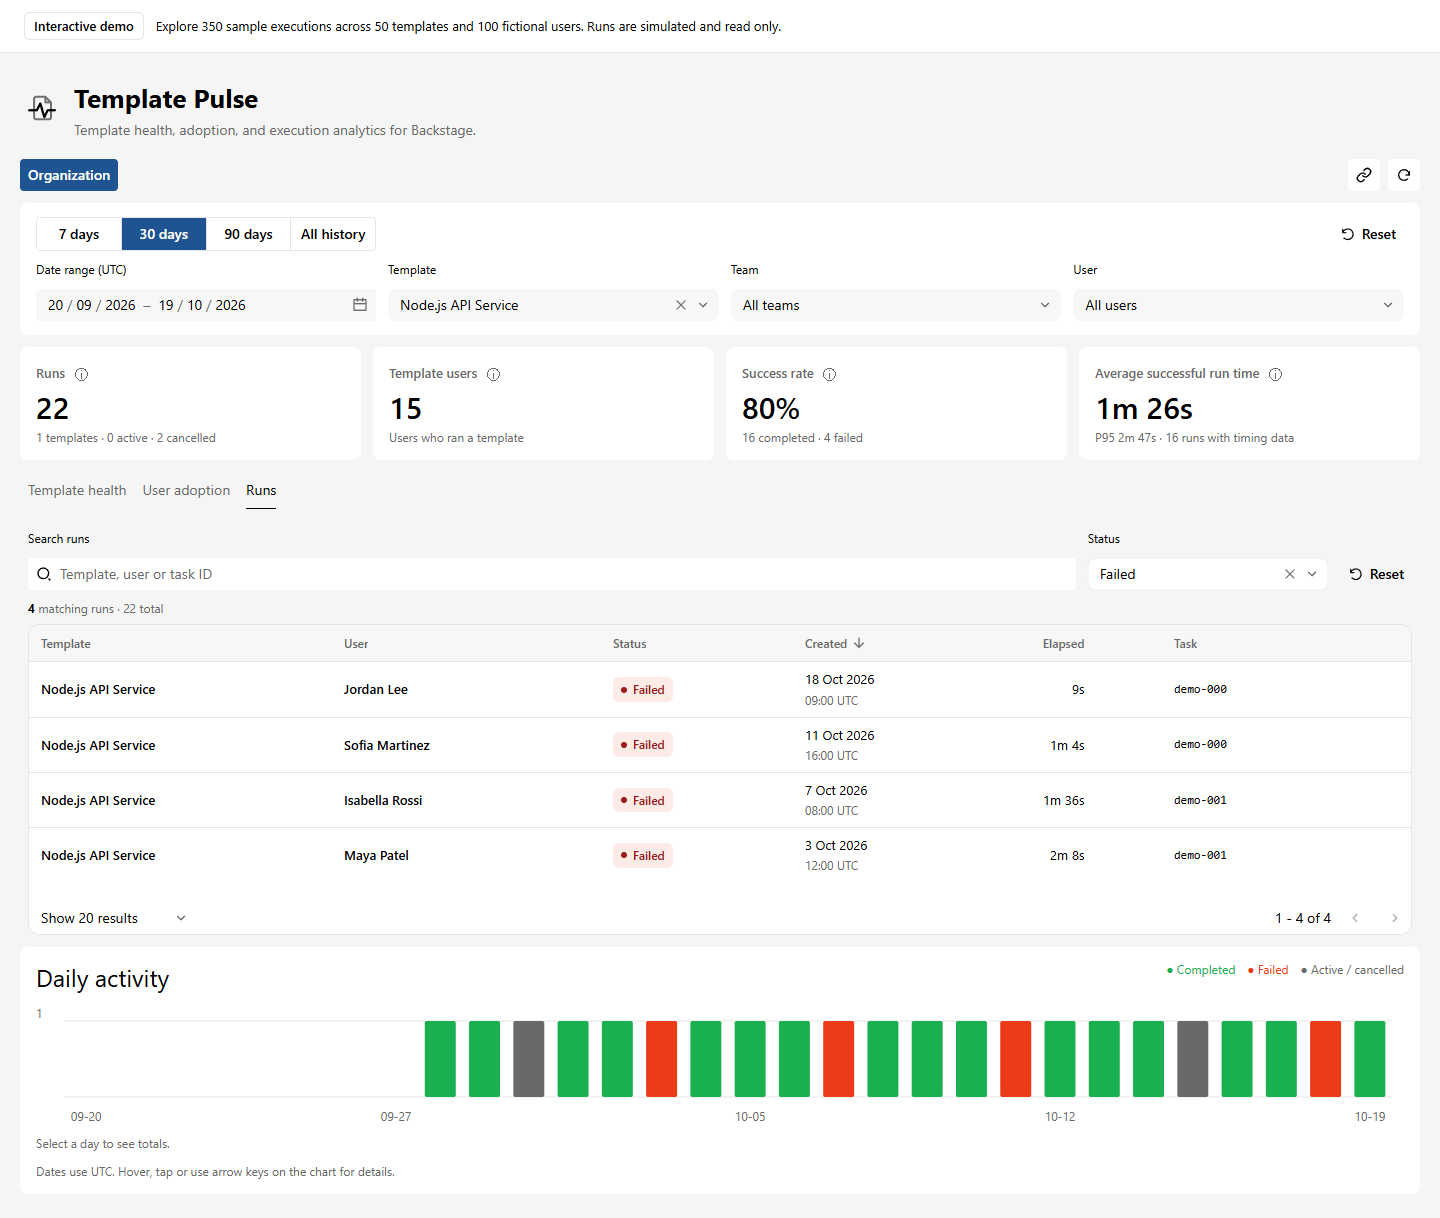
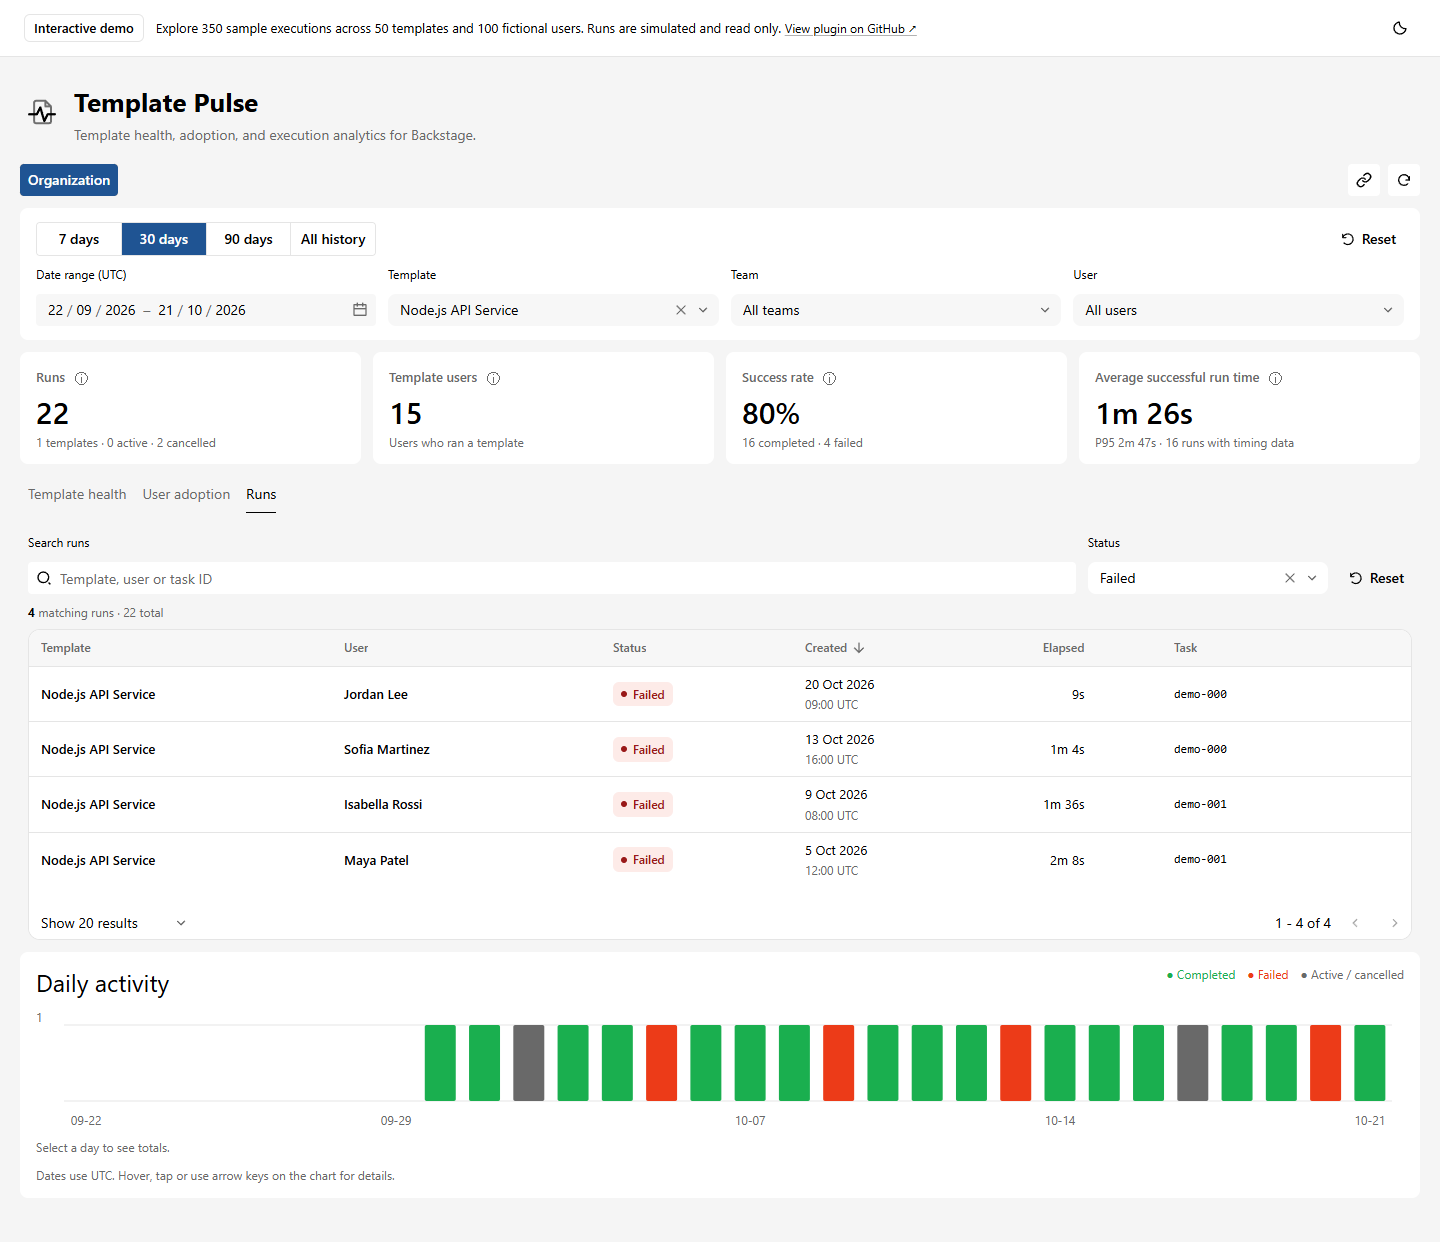
feat: update Open Graph and Twitter metadata; replace template health image with new preview image

diff --git a/packages/app/src/staticDemo.tsx b/packages/app/src/staticDemo.tsx
@@ -1,4 +1,4 @@
-import { useEffect, useState } from 'react';
+import { useEffect, useState, type ReactNode } from 'react';
 import {
   ApiBlueprint,
   appThemeApiRef,
@@ -8,7 +8,8 @@ import {
   createFrontendModule,
   useApi,
 } from '@backstage/frontend-plugin-api';
-import { ButtonIcon, Tooltip, TooltipTrigger } from '@backstage/ui';
+import { ThemeBlueprint } from '@backstage/plugin-app-react';
+import { ButtonIcon, Link, Tooltip, TooltipTrigger } from '@backstage/ui';
 import templatePulse, {
   executionsApiRef,
   TemplatePulseIcon,
@@ -16,7 +17,7 @@ import templatePulse, {
 import { DemoExecutionsApi } from './demoApi';
 import './staticDemo.css';
 
-function ThemeToggle() {
+function useDemoTheme() {
   const appThemeApi = useApi(appThemeApiRef);
   const [themeId, setThemeId] = useState(appThemeApi.getActiveThemeId());
   const [prefersDark, setPrefersDark] = useState(
@@ -40,6 +41,20 @@ function ThemeToggle() {
     appThemeApi.getInstalledThemes().find(theme => theme.id === themeId)
       ?.variant === 'dark' ||
     (themeId === undefined && prefersDark);
+  return { appThemeApi, isDark };
+}
+
+function DemoThemeProvider({ children }: { children: ReactNode }) {
+  const { isDark } = useDemoTheme();
+  useEffect(() => {
+    document.body.setAttribute('data-theme-mode', isDark ? 'dark' : 'light');
+    return () => document.body.removeAttribute('data-theme-mode');
+  }, [isDark]);
+  return <>{children}</>;
+}
+
+function ThemeToggle() {
+  const { appThemeApi, isDark } = useDemoTheme();
   const nextTheme = isDark ? 'light' : 'dark';
   const label = `Switch to ${nextTheme} theme`;
 
@@ -100,6 +115,19 @@ export const staticDemoApi = createFrontendModule({
 export const staticDemoLayout = createFrontendModule({
   pluginId: 'app',
   extensions: [
+    ...(['light', 'dark'] as const).map(variant =>
+      ThemeBlueprint.make({
+        name: variant,
+        params: {
+          theme: {
+            id: variant,
+            title: variant === 'dark' ? 'Dark Theme' : 'Light Theme',
+            variant,
+            Provider: DemoThemeProvider,
+          },
+        },
+      }),
+    ),
     createExtension({
       name: 'layout',
       attachTo: { id: 'app/root', input: 'children' },
@@ -121,7 +149,15 @@ export const staticDemoLayout = createFrontendModule({
                 <span className="static-demo-badge">Interactive demo</span>
                 <span>
                   Explore 350 sample executions across 50 templates and 100
-                  fictional users. Runs are simulated and read only.
+                  fictional users. Runs are simulated and read only.{' '}
+                  <Link
+                    href="https://github.com/alibayramli/template-pulse"
+                    target="_blank"
+                    rel="noopener noreferrer"
+                    variant="body-small"
+                  >
+                    View plugin on GitHub <span aria-hidden="true">↗</span>
+                  </Link>
                 </span>
               </div>
               <ThemeToggle />

diff --git a/packages/app/public/index.html b/packages/app/public/index.html
@@ -8,6 +8,43 @@
       name="description"
       content="Track the health and adoption of your Backstage templates with execution analytics, performance insights, and searchable run history."
     />
+    <meta property="og:type" content="website" />
+    <meta
+      property="og:title"
+      content="<%= config.getOptionalString('app.title') ?? 'Template Pulse Demo' %>"
+    />
+    <meta
+      property="og:description"
+      content="Track the health and adoption of your Backstage templates with execution analytics, performance insights, and searchable run history."
+    />
+    <link
+      rel="canonical"
+      href="<%= config.getString('app.baseUrl').replace(/\/$/, '') %>/"
+    />
+    <meta
+      property="og:url"
+      content="<%= config.getString('app.baseUrl').replace(/\/$/, '') %>/"
+    />
+    <meta
+      property="og:image"
+      content="<%= config.getString('app.baseUrl').replace(/\/$/, '') %>/template-pulse-preview.png"
+    />
+    <meta property="og:image:type" content="image/png" />
+    <meta property="og:image:width" content="1440" />
+    <meta property="og:image:height" content="754" />
+    <meta
+      property="og:image:alt"
+      content="Template Pulse dashboard showing template health, success rates, and run times."
+    />
+    <meta name="twitter:card" content="summary_large_image" />
+    <meta
+      name="twitter:image"
+      content="<%= config.getString('app.baseUrl').replace(/\/$/, '') %>/template-pulse-preview.png"
+    />
+    <meta
+      name="twitter:image:alt"
+      content="Template Pulse dashboard showing template health, success rates, and run times."
+    />
     <!--
       manifest.json provides metadata used when your web app is installed on a
       user's mobile device or desktop. See https://developers.google.com/web/fundamentals/web-app-manifest/
